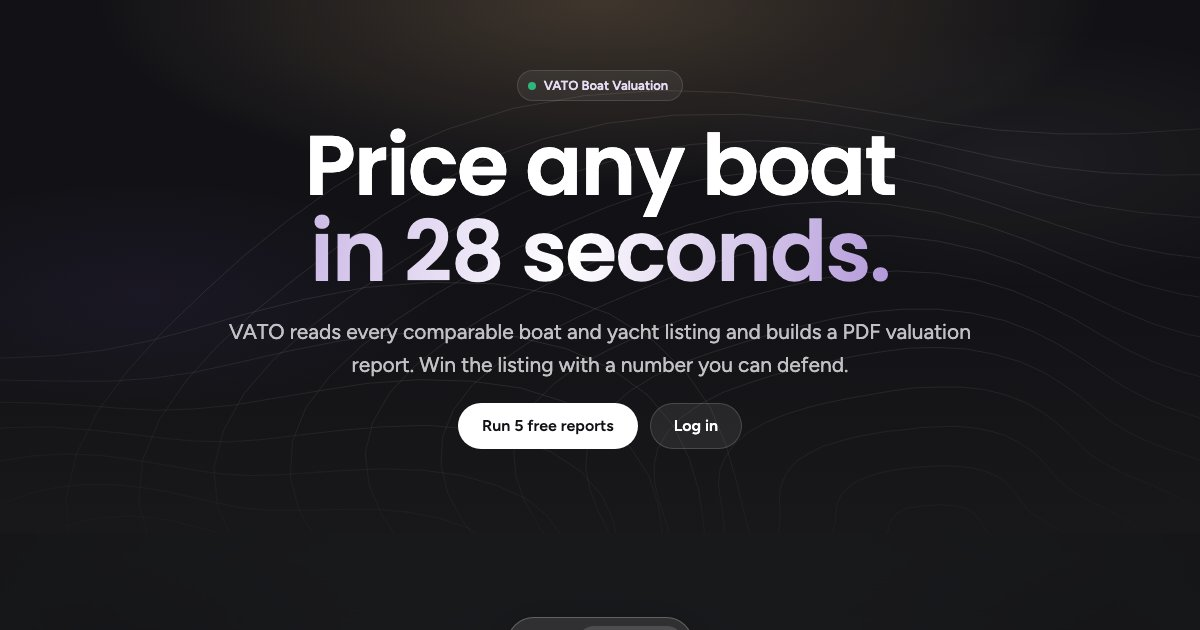
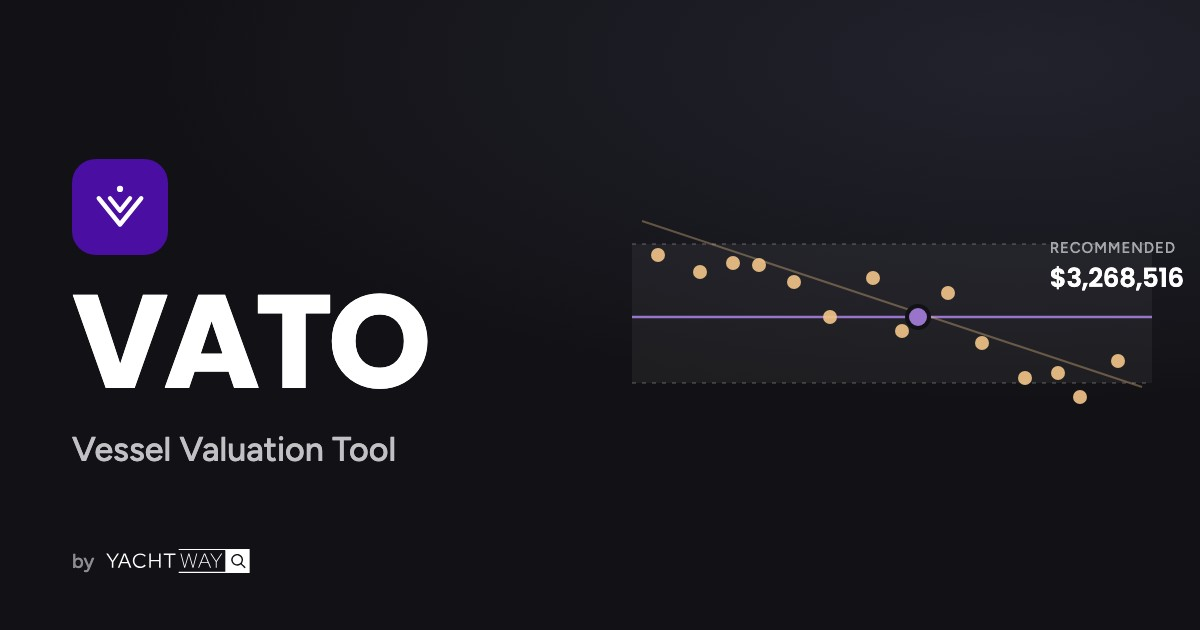
New OG card: VATO - Vessel Valuation Tool

diff --git a/index.html b/index.html
@@ -8,18 +8,18 @@
 <meta property="og:site_name" content="YachtWay">
 <meta property="og:locale" content="en_US">
 <meta property="og:url" content="https://www.yachtway.com/boat-valuation/">
-<meta property="og:title" content="VATO Boat Valuation: Price Any Boat in 28 Seconds">
+<meta property="og:title" content="VATO - Vessel Valuation Tool">
 <meta property="og:description" content="VATO values any boat or yacht from live comparable listings in 28 seconds, with a PDF report. For brokers, dealers, lenders and surveyors. 5 free reports.">
 <meta property="og:image" content="https://www.yachtway.com/boat-valuation/og-vato.jpg">
 <meta property="og:image:width" content="1200">
 <meta property="og:image:height" content="630">
-<meta property="og:image:alt" content="VATO Boat Valuation by YachtWay: price any boat in 28 seconds">
+<meta property="og:image:alt" content="VATO logo, Vessel Valuation Tool by YachtWay, with a comparable listings price chart">
 <meta name="twitter:card" content="summary_large_image">
-<meta name="twitter:title" content="VATO Boat Valuation: Price Any Boat in 28 Seconds">
+<meta name="twitter:title" content="VATO - Vessel Valuation Tool">
 <meta name="twitter:description" content="VATO values any boat or yacht from live comparable listings in 28 seconds, with a PDF report. For brokers, dealers, lenders and surveyors. 5 free reports.">
 <meta name="twitter:image" content="https://www.yachtway.com/boat-valuation/og-vato.jpg">
 <meta name="theme-color" content="#111113">
-<script type="application/ld+json">{"@context":"https://schema.org","@graph":[{"@type":"Organization","@id":"https://www.yachtway.com/#organization","name":"YachtWay","url":"https://www.yachtway.com/","sameAs":["https://instagram.com/yachtway","https://www.facebook.com/YachtWay","https://www.linkedin.com/company/yachtway","https://www.tiktok.com/@yachtway","https://www.youtube.com/@yachtway"]},{"@type":"WebSite","@id":"https://www.yachtway.com/#website","url":"https://www.yachtway.com/","name":"YachtWay","publisher":{"@id":"https://www.yachtway.com/#organization"},"inLanguage":"en-US"},{"@type":"WebPage","@id":"https://www.yachtway.com/boat-valuation/#webpage","url":"https://www.yachtway.com/boat-valuation/","name":"VATO Boat Valuation","headline":"Price any boat in 28 seconds.","description":"VATO values any boat or yacht from live comparable listings in 28 seconds, with a PDF report. For brokers, dealers, lenders and surveyors. 5 free reports.","isPartOf":{"@id":"https://www.yachtway.com/#website"},"about":{"@id":"https://www.yachtway.com/boat-valuation/#vato"},"mainEntity":{"@id":"https://www.yachtway.com/boat-valuation/#vato"},"breadcrumb":{"@id":"https://www.yachtway.com/boat-valuation/#breadcrumb"},"primaryImageOfPage":{"@id":"https://www.yachtway.com/boat-valuation/#image"},"inLanguage":"en-US","dateModified":"2026-10-05"},{"@type":"ImageObject","@id":"https://www.yachtway.com/boat-valuation/#image","url":"https://www.yachtway.com/boat-valuation/og-vato.jpg","width":1200,"height":630,"caption":"VATO Boat Valuation by YachtWay: price any boat in 28 seconds"},{"@type":"BreadcrumbList","@id":"https://www.yachtway.com/boat-valuation/#breadcrumb","itemListElement":[{"@type":"ListItem","position":1,"name":"Home","item":"https://www.yachtway.com/"},{"@type":"ListItem","position":2,"name":"VATO Boat Valuation","item":"https://www.yachtway.com/boat-valuation/"}]},{"@type":"SoftwareApplication","@id":"https://www.yachtway.com/boat-valuation/#vato","name":"VATO","alternateName":"VATO Boat Valuation","url":"https://www.yachtway.com/boat-valuation/","applicationCategory":"BusinessApplication","applicationSubCategory":"Boat and yacht valuation","operatingSystem":"Web","description":"VATO reads every comparable boat and yacht listing and builds a PDF valuation report with a recommended list price, the time to sell, and the listings behind every number.","audience":{"@type":"BusinessAudience","audienceType":"Yacht brokers, boat dealers, lenders, loan brokers, marine surveyors and underwriters"},"featureList":["Recommended list price from comparable listings","Three list prices with the time to sell at each","Buyer report with days on market and price cuts","Bank report with a fair valuation band","Adjustments for engine hours and condition, each shown","PDF report to send to owners, buyers and lenders","One plan shared by the whole team, a login per broker"],"offers":{"@type":"Offer","price":"0","priceCurrency":"USD","description":"First 5 reports free, shared across the team. Plans on request.","url":"https://www.yachtway.com/boat-valuation/"},"provider":{"@id":"https://www.yachtway.com/#organization"},"publisher":{"@id":"https://www.yachtway.com/#organization"},"image":{"@id":"https://www.yachtway.com/boat-valuation/#image"}},{"@type":"FAQPage","@id":"https://www.yachtway.com/boat-valuation/#faq","isPartOf":{"@id":"https://www.yachtway.com/boat-valuation/#webpage"},"mainEntity":[{"@type":"Question","name":"What is VATO?","acceptedAnswer":{"@type":"Answer","text":"VATO is YachtWay's boat valuation tool for professionals. Pick a year range, make, model and country. VATO reads every comparable listing on the market and builds a PDF report with a recommended list price, the time to sell, and every listing behind the number. A report takes about 28 seconds."}},{"@type":"Question","name":"Where does the data come from?","acceptedAnswer":{"@type":"Answer","text":"From YachtWay's market analysts. They follow boat listings across the industry, every builder, model and region, and check the data every week before VATO uses it. Today that is 109,114 listings."}},{"@type":"Question","name":"How is the number built?","acceptedAnswer":{"@type":"Answer","text":"From the comparable listings, adjusted for engine hours and condition. Every adjustment is shown in the PDF, so the owner can check it."}},{"@type":"Question","name":"Which boats can VATO value?","acceptedAnswer":{"@type":"Answer","text":"VATO is at its best on boats and yachts over 30 feet, from any builder and any region. Every report shows how many comparable listings sit behind the price."}},{"@type":"Question","name":"Is a VATO report an appraisal or a survey?","acceptedAnswer":{"@type":"Answer","text":"No. VATO is a market read built from the asking prices of comparable listings. It backs a broker's list price and a surveyor's market value with live comps. It does not replace an inspection."}},{"@type":"Question","name":"Can I send the report to clients?","acceptedAnswer":{"@type":"Answer","text":"Yes. Every report is a PDF. Email it to the owner, hand it to your buyer, or attach it to a loan file."}},{"@type":"Question","name":"Who on my team can use it?","acceptedAnswer":{"@type":"Answer","text":"Everyone with a seat. Each person signs in with their own email, and the whole organization shares one plan."}},{"@type":"Question","name":"What does it cost?","acceptedAnswer":{"@type":"Answer","text":"Your first 5 reports are free, shared across the team. For plans, contact YachtWay."}}]}]}</script>
+<script type="application/ld+json">{"@context":"https://schema.org","@graph":[{"@type":"Organization","@id":"https://www.yachtway.com/#organization","name":"YachtWay","url":"https://www.yachtway.com/","sameAs":["https://instagram.com/yachtway","https://www.facebook.com/YachtWay","https://www.linkedin.com/company/yachtway","https://www.tiktok.com/@yachtway","https://www.youtube.com/@yachtway"]},{"@type":"WebSite","@id":"https://www.yachtway.com/#website","url":"https://www.yachtway.com/","name":"YachtWay","publisher":{"@id":"https://www.yachtway.com/#organization"},"inLanguage":"en-US"},{"@type":"WebPage","@id":"https://www.yachtway.com/boat-valuation/#webpage","url":"https://www.yachtway.com/boat-valuation/","name":"VATO Boat Valuation","headline":"Price any boat in 28 seconds.","description":"VATO values any boat or yacht from live comparable listings in 28 seconds, with a PDF report. For brokers, dealers, lenders and surveyors. 5 free reports.","isPartOf":{"@id":"https://www.yachtway.com/#website"},"about":{"@id":"https://www.yachtway.com/boat-valuation/#vato"},"mainEntity":{"@id":"https://www.yachtway.com/boat-valuation/#vato"},"breadcrumb":{"@id":"https://www.yachtway.com/boat-valuation/#breadcrumb"},"primaryImageOfPage":{"@id":"https://www.yachtway.com/boat-valuation/#image"},"inLanguage":"en-US","dateModified":"2026-10-05"},{"@type":"ImageObject","@id":"https://www.yachtway.com/boat-valuation/#image","url":"https://www.yachtway.com/boat-valuation/og-vato.jpg","width":1200,"height":630,"caption":"VATO logo, Vessel Valuation Tool by YachtWay, with a comparable listings price chart"},{"@type":"BreadcrumbList","@id":"https://www.yachtway.com/boat-valuation/#breadcrumb","itemListElement":[{"@type":"ListItem","position":1,"name":"Home","item":"https://www.yachtway.com/"},{"@type":"ListItem","position":2,"name":"VATO Boat Valuation","item":"https://www.yachtway.com/boat-valuation/"}]},{"@type":"SoftwareApplication","@id":"https://www.yachtway.com/boat-valuation/#vato","name":"VATO","alternateName":"VATO Boat Valuation","url":"https://www.yachtway.com/boat-valuation/","applicationCategory":"BusinessApplication","applicationSubCategory":"Boat and yacht valuation","operatingSystem":"Web","description":"VATO reads every comparable boat and yacht listing and builds a PDF valuation report with a recommended list price, the time to sell, and the listings behind every number.","audience":{"@type":"BusinessAudience","audienceType":"Yacht brokers, boat dealers, lenders, loan brokers, marine surveyors and underwriters"},"featureList":["Recommended list price from comparable listings","Three list prices with the time to sell at each","Buyer report with days on market and price cuts","Bank report with a fair valuation band","Adjustments for engine hours and condition, each shown","PDF report to send to owners, buyers and lenders","One plan shared by the whole team, a login per broker"],"offers":{"@type":"Offer","price":"0","priceCurrency":"USD","description":"First 5 reports free, shared across the team. Plans on request.","url":"https://www.yachtway.com/boat-valuation/"},"provider":{"@id":"https://www.yachtway.com/#organization"},"publisher":{"@id":"https://www.yachtway.com/#organization"},"image":{"@id":"https://www.yachtway.com/boat-valuation/#image"}},{"@type":"FAQPage","@id":"https://www.yachtway.com/boat-valuation/#faq","isPartOf":{"@id":"https://www.yachtway.com/boat-valuation/#webpage"},"mainEntity":[{"@type":"Question","name":"What is VATO?","acceptedAnswer":{"@type":"Answer","text":"VATO is YachtWay's boat valuation tool for professionals. Pick a year range, make, model and country. VATO reads every comparable listing on the market and builds a PDF report with a recommended list price, the time to sell, and every listing behind the number. A report takes about 28 seconds."}},{"@type":"Question","name":"Where does the data come from?","acceptedAnswer":{"@type":"Answer","text":"From YachtWay's market analysts. They follow boat listings across the industry, every builder, model and region, and check the data every week before VATO uses it. Today that is 109,114 listings."}},{"@type":"Question","name":"How is the number built?","acceptedAnswer":{"@type":"Answer","text":"From the comparable listings, adjusted for engine hours and condition. Every adjustment is shown in the PDF, so the owner can check it."}},{"@type":"Question","name":"Which boats can VATO value?","acceptedAnswer":{"@type":"Answer","text":"VATO is at its best on boats and yachts over 30 feet, from any builder and any region. Every report shows how many comparable listings sit behind the price."}},{"@type":"Question","name":"Is a VATO report an appraisal or a survey?","acceptedAnswer":{"@type":"Answer","text":"No. VATO is a market read built from the asking prices of comparable listings. It backs a broker's list price and a surveyor's market value with live comps. It does not replace an inspection."}},{"@type":"Question","name":"Can I send the report to clients?","acceptedAnswer":{"@type":"Answer","text":"Yes. Every report is a PDF. Email it to the owner, hand it to your buyer, or attach it to a loan file."}},{"@type":"Question","name":"Who on my team can use it?","acceptedAnswer":{"@type":"Answer","text":"Everyone with a seat. Each person signs in with their own email, and the whole organization shares one plan."}},{"@type":"Question","name":"What does it cost?","acceptedAnswer":{"@type":"Answer","text":"Your first 5 reports are free, shared across the team. For plans, contact YachtWay."}}]}]}</script>
 </head><body style="margin:0">
 
 <script>if('IntersectionObserver' in window&&!matchMedia('(prefers-reduced-motion: reduce)').matches)document.documentElement.classList.add('js')</script>
